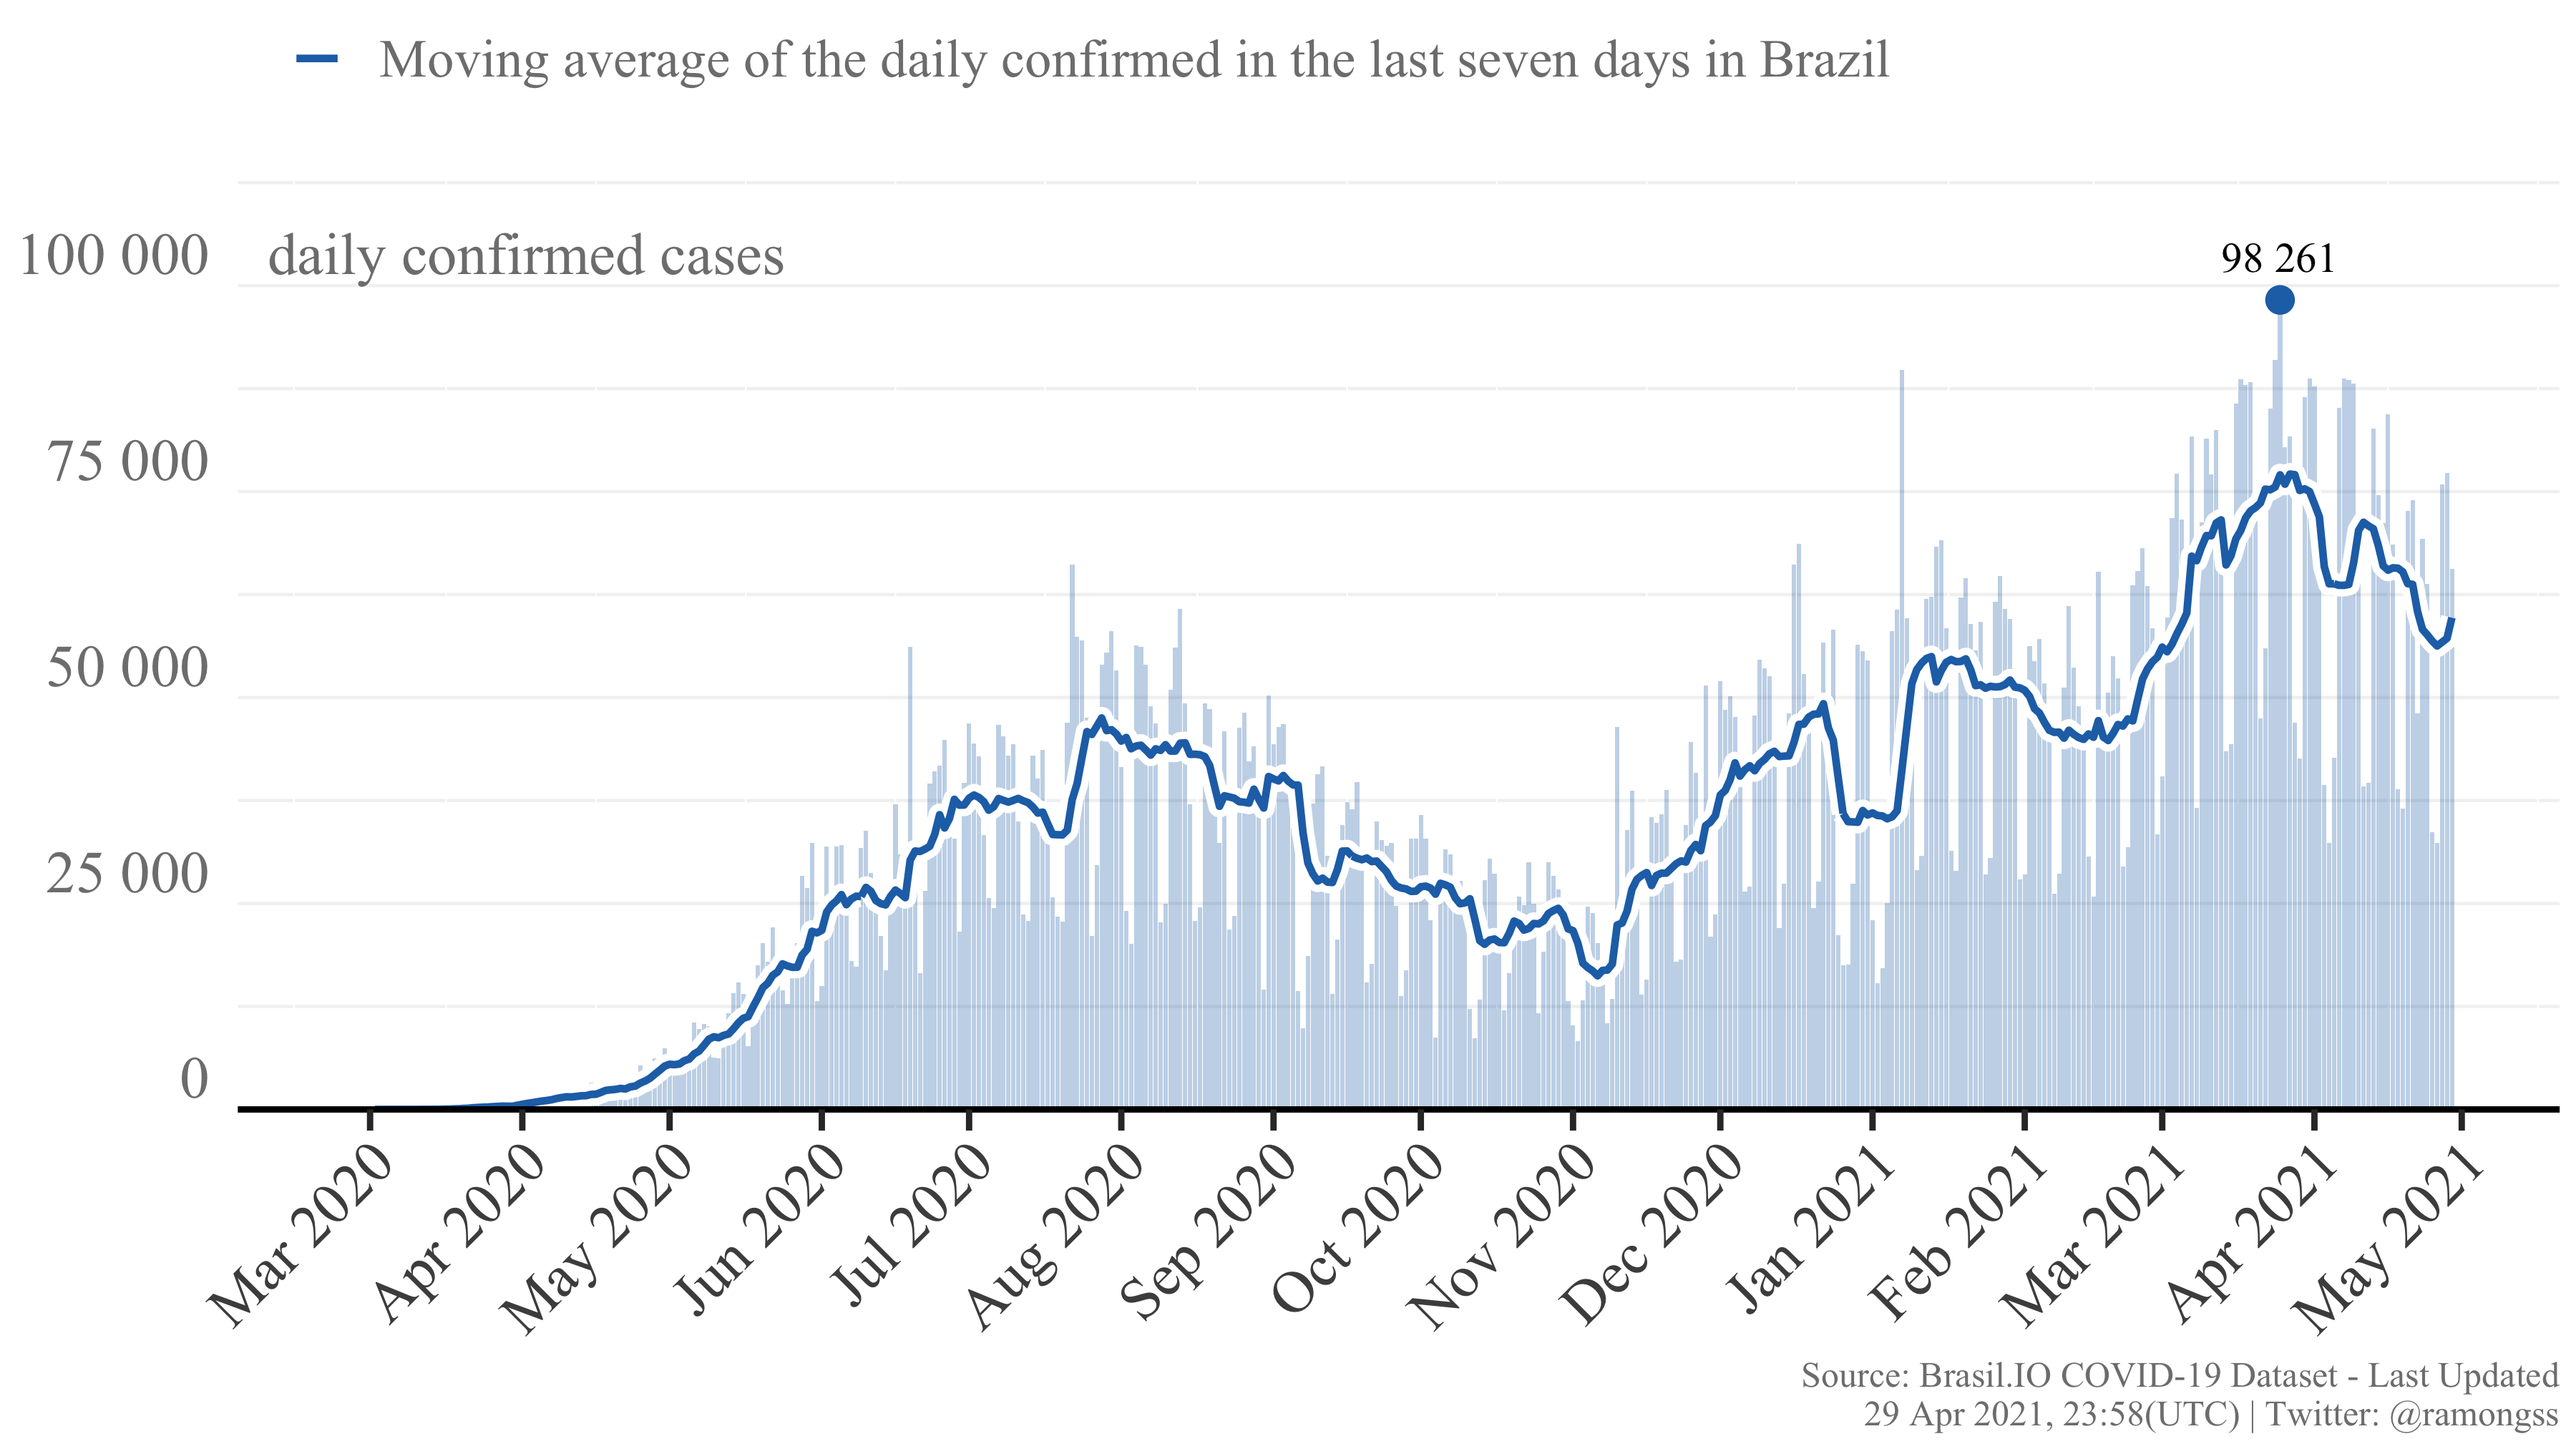
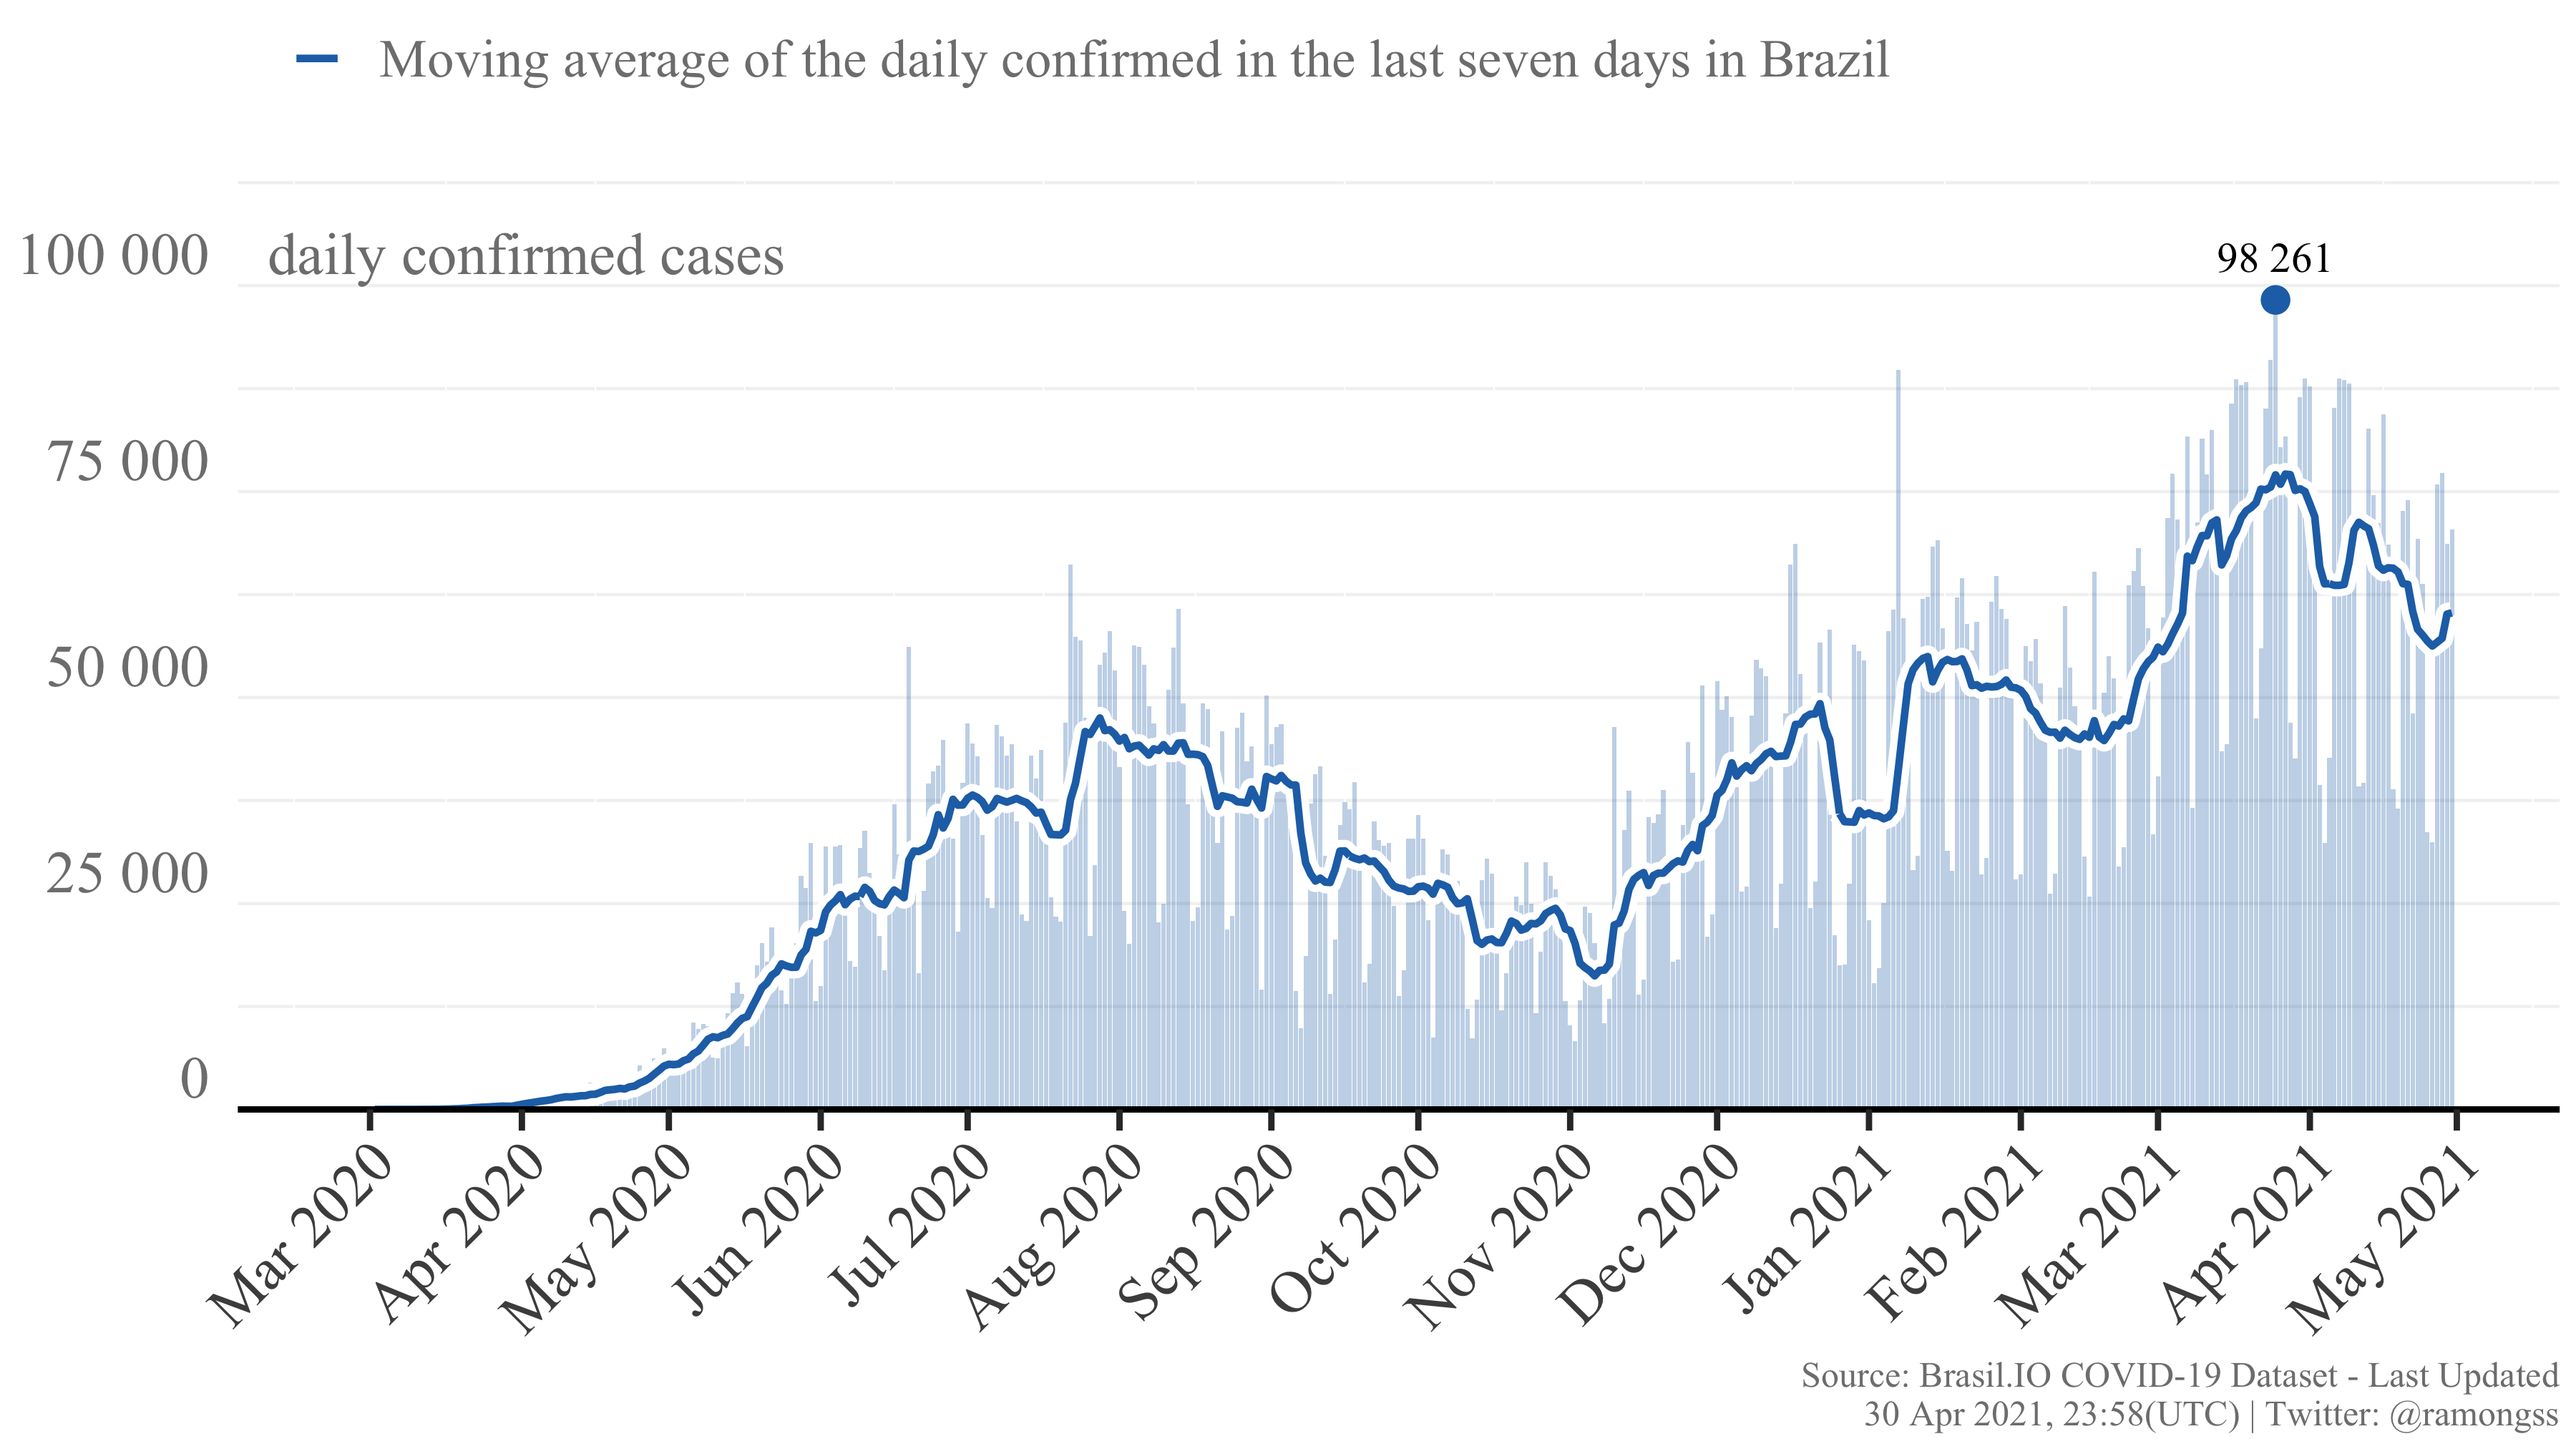
Re-build README.Rmd

diff --git a/README.md b/README.md
@@ -27,8 +27,8 @@ download_brasilio_table <- function(dataset = "covid19", table_name){
 
 ## COVID-19 Confirmed cases
 
-Currently, Brazil has a total of **14,600,113** confirmed cases at **29
-Apr, 2021**, with **65,631** new confirmed cases. The daily maximum
+Currently, Brazil has a total of **14,673,518** confirmed cases at **30
+Apr, 2021**, with **70,422** new confirmed cases. The daily maximum
 incidence was **98,261** confirmed cases at **25 Mar, 2021**. Here
 follows the Figure showing the confirmed case incidence as the bars, and
 the line as the moving average of the last 7 days.
@@ -37,8 +37,8 @@ the line as the moving average of the last 7 days.
 
 ## COVID-19 Deaths
 
-Currently, Brazil has a total of **401,599** deaths at **29 Apr, 2021**,
-with **2,962** new deaths. The daily maximum deaths incidence was
+Currently, Brazil has a total of **404,471** deaths at **30 Apr, 2021**,
+with **2,802** new deaths. The daily maximum deaths incidence was
 **4,148** deaths at **08 Apr, 2021**. Here follows the Figure showing
 the deaths incidence as the bars, and the line as the moving average of
 the last 7 days.
@@ -49,4 +49,4 @@ the last 7 days.
 
 This page is daily updated automatically using Github Actions.
 
-*Last update: 29 Apr 2021, 23:58 (UTC).*
+*Last update: 30 Apr 2021, 23:58 (UTC).*
